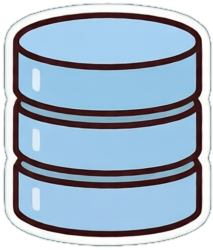
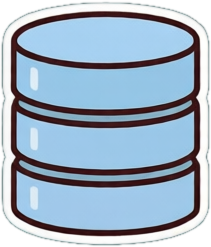
Update decorative sticker set (fixed transparent-margin trimming)

Changed region(s): [[0.0, 0.0, 0.9953, 1.0], [0.4265, 0.17, 0.9384, 0.2834], [0.9384, 0.6518, 0.9668, 0.6802]]

diff --git a/assets/js/fondo-decorativo.js b/assets/js/fondo-decorativo.js
@@ -10,9 +10,9 @@
   const baseIconos = new URL('../img/fondo/', scriptActual.src).href;
 
   const nombresIconos = [
-    'hombre-de-gengibre.png', 'icon-perro-transparente.png', 'galletas.png', 'base-de-datos.png', 'bombilla.png',
-    'carta.png', 'checks.png', 'code.png', 'engranaje.png', 'folder.png',
-    'hoja.png', 'lupa.png', 'minicookies-logo.png',
+    'icon-perro-transparente.png', 'hombre-de-gengibre.png', 'galletas.png', 'icon-otono-transparente.png', 'base-de-datos.png',
+    'bombilla.png', 'carta.png', 'checks.png', 'code.png', 'engranaje.png',
+    'folder.png', 'hoja.png', 'lupa.png', 'minicookies-logo.png',
   ];
   const iconos = nombresIconos.map((nombre) => baseIconos + nombre);
 
